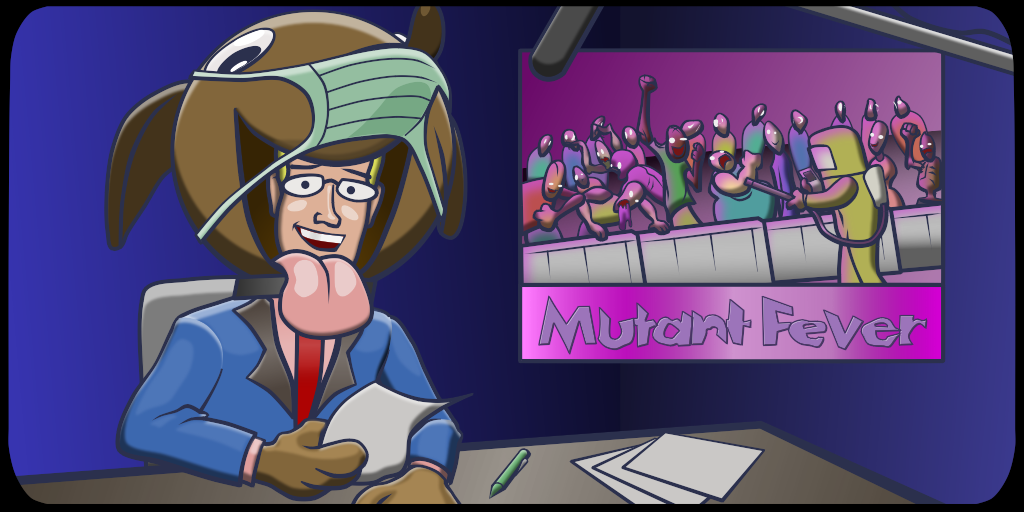
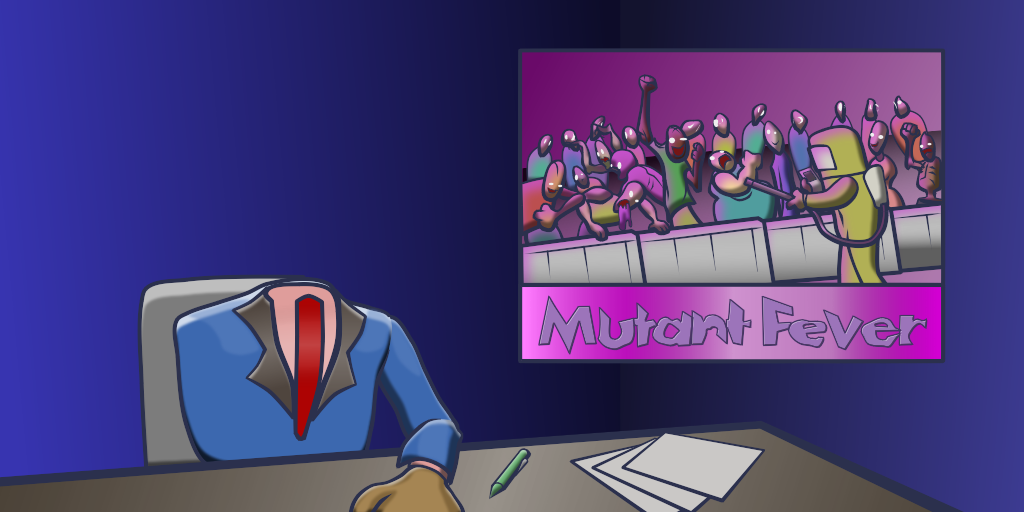
Added mutant fever cutscene

Changed region(s): [[0.0, 0.0, 1.0, 1.0]]

diff --git a/game.js b/game.js
@@ -13897,12 +13897,14 @@ Cutscene = function(I) {
       width: App.width,
       height: App.height / 3,
       x: App.width / 2,
-      y: 5 / 6 * App.height
+      y: 5 / 6 * App.height,
+      zIndex: 9000
     });
     return dialog = engine.add({
       "class": "DialogBox",
       text: I.text,
-      y: 2 / 3 * App.height
+      y: 2 / 3 * App.height,
+      zIndex: 9001
     });
   });
   self.on("update", function() {
@@ -13997,28 +13999,48 @@ $(function() {
         nextState: MapState
       },
       hiss: {
-        text: "What do you like BEST about the Serpentmen?\n\nThey BIT me! WooOo!",
-        background: "tailgate_serpentmen"
+        text: "What do you like BEST about the Serpentmen?\n\nThey BIT me! WooOo!"
       },
       smiley: {
-        text: "Here's a fan now! Hello sir, why are YOU smiling?\n\nHow the HELL should I know?",
-        background: "smiley_arena"
+        text: "Here's a fan now! Hello sir, why are YOU smiling?\n\nHow the HELL should I know?"
       },
       spike: {
-        text: "",
-        background: "spike_fans"
+        text: ""
       },
       mutant: {
         text: "MUTANT FEVER! The fans are out in record numbers. Please be advised to stay indoors--\nThere is no cure.",
-        background: "mutant_fever"
+        props: [
+          {
+            head: {
+              x: 370,
+              y: 175,
+              registrationPoint: Point(-80, 150),
+              rotationFn: function(t) {
+                return Math.sin((t / 15) * Math.TAU) * Math.TAU / 256 + Math.sin((t / 4 - 0.5) * Math.TAU) * Math.TAU / 128;
+              }
+            },
+            arm: {
+              registrationPoint: Point(-320, 78),
+              rotationFn: function(t) {
+                return Math.sin((t / 15) * Math.TAU) * Math.TAU / 90 + Math.sin((t / 5 - 0.25) * Math.TAU) * Math.TAU / 20;
+              }
+            },
+            boom: {
+              x: 750,
+              y: 20,
+              registrationPoint: Point(512, 256),
+              rotationFn: function(t) {
+                return Math.sin((t / 15) * Math.TAU) * Math.TAU / 256 + Math.sin((t / 4 - 0.25) * Math.TAU) * Math.TAU / 1024;
+              }
+            }
+          }, "tv"
+        ]
       },
       monster: {
-        text: "Ok... show me how it's done.",
-        background: "monster_graveyard"
+        text: "Ok... show me how it's done."
       },
       robo: {
-        text: "This is what it's all about.",
-        background: "on_da_moon"
+        text: "This is what it's all about."
       }
     };
     _ref = Cutscene.scenes;
